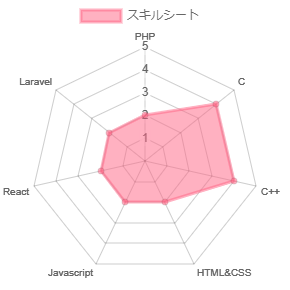
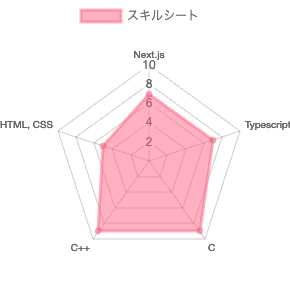
fix: renew2024

diff --git a/docs/index.html b/docs/index.html
@@ -1,126 +1,176 @@
 <!DOCTYPE html>
 <html lang="en">
-    <head>
-        <meta charset="UTF-8">
-        <meta name="viewport" content="width=device-width, initial-scale=1.0">
-        <meta http-equiv="X-UA-Compatible" content="ie=edge">
-        <link rel="stylesheet" href="./stylesheet.css">
-        <title>Piro's Portfolio</title>
-        <link rel="icon" href="./pirologo.jpg">
-        <link href="https://fonts.googleapis.com/css2?family=Kosugi+Maru&display=swap" rel="stylesheet">
-    </head>
-    <header>
-        <!-- site name -->
-        <div class = "logo">
-            <img src="./pirologo.jpg">
+  <head>
+    <meta charset="UTF-8" />
+    <meta name="viewport" content="width=device-width, initial-scale=1.0" />
+    <meta http-equiv="X-UA-Compatible" content="ie=edge" />
+    <link rel="stylesheet" href="./stylesheet.css" />
+    <title>Piro's Portfolio</title>
+    <link rel="icon" href="./pirologo.jpg" />
+    <link
+      href="https://fonts.googleapis.com/css2?family=Kosugi+Maru&display=swap"
+      rel="stylesheet"
+    />
+  </head>
+  <header>
+    <!-- site name -->
+    <div class="logo">
+      <img src="./pirologo.jpg" />
+    </div>
+    <nav class="pc_nav">
+      <ul>
+        <li><a href="#main_visual">トップ</a></li>
+        <li><a href="#about_site">このサイトについて</a></li>
+        <li><a href="#introduce">私について</a></li>
+        <li><a href="#portfolio">ポートフォリオ</a></li>
+        <li><a href="#form">お問い合わせ</a></li>
+      </ul>
+    </nav>
+    <div class="hamburger-menu">
+      <input type="checkbox" id="menu-btn-check" />
+      <label for="menu-btn-check" class="menu-btn"><span></span></label>
+      <div class="menu-content" id="menu-content">
+        <ul>
+          <li><a href="#main_visual">トップ</a></li>
+          <li><a href="#about_site">このサイトについて</a></li>
+          <li><a href="#introduce">私について</a></li>
+          <li><a href="#portfolio">ポートフォリオ</a></li>
+          <li><a href="#form">お問い合わせ</a></li>
+        </ul>
+      </div>
+    </div>
+  </header>
+  <body>
+    <!-- main -->
+    <div class="main_visual" id="main_visual">
+      <h2>Piro's Portfolio</h2>
+    </div>
+    <div class="about_site anchor" id="about_site">
+      <div class="a_s_title">
+        <a class="anchor"></a>
+        <h2>About this site</h2>
+      </div>
+      <div class="a_s_exp">
+        <p>ここはエンジニアPiroのポートフォリオサイトです。</p>
+        <p>今まで製作したものをまとめています。</p>
+        <p>どうぞゆっくりしていってくださいね！！！</p>
+      </div>
+    </div>
+    <div class="introduce" id="introduce">
+      <div class="intr_title">
+        <a class="anchor"></a>
+        <h2>About me</h2>
+      </div>
+      <div class="intr_exp">
+        <p>学習好きな40代の男性プログラマー</p>
+        <p>趣味は英語です＾＾</p>
+      </div>
+    </div>
+    <div class="portfolio" id="portfolio">
+      <div class="port_title">
+        <a class="anchor"></a>
+        <h2>ポートフォリオ</h2>
+      </div>
+      <p>製作物</p>
+      <div class="port_product">
+        <div class="product-mamaleaf item">
+          <h3>ホームページ製作案件</h3>
+          <p>
+            <a href="https://pirosiki002.github.io/portfolio/charlotte_sama/"
+              >Charlotte 様</a
+            >
+          </p>
+          <p>(HTML CSS)</p>
+          <p><a href="https://otayoly.app/">MamaLeaf 株式会社 様</a></p>
+          <p>(Wordpress)</p>
+          <p>
+            <a href="https://considerategrowthf.wixsite.com/hikarikoubou"
+              >光工房 様</a
+            >
+          </p>
+          <p>(Wix)</p>
         </div>
-        <nav class="pc_nav">
-            <ul>
-                <li><a href="#main_visual">トップ</a></li>
-                <li><a href="#about_site">このサイトについて</a></li>
-                <li><a href="#introduce">私について</a></li>
-                <li><a href="#portfolio">ポートフォリオ</a></li>
-                <li><a href="#form">お問い合わせ</a></li>
-            </ul>
-        </nav>
-        <div class="hamburger-menu">
-            <input type="checkbox" id="menu-btn-check">
-            <label for="menu-btn-check" class="menu-btn"><span></span></label>
-            <div class="menu-content" id = "menu-content">
-                <ul>
-                    <li><a href="#main_visual">トップ</a></li>
-                    <li><a href="#about_site">このサイトについて</a></li>
-                    <li><a href="#introduce">私について</a></li>
-                    <li><a href="#portfolio">ポートフォリオ</a></li>
-                    <li><a href="#form">お問い合わせ</a></li>
-                </ul>
-            </div>
+        <div class="product-repair item">
+          <h3>非公開Web開発案件</h3>
+          <p>ショッピングモール管理システム(Next.js、Typescript)</p>
+          <p>宿泊先予約管理システム(Next.js)</p>
+          <p>商品管理ツール(GAS)</p>
         </div>
-    </header>
-    <body>
-        <!-- main -->
-        <div class ="main_visual" id ="main_visual">
-            <h2>Piro's Portfolio</h2>
-        </div> 
-        <div class = "about_site anchor" id ="about_site">
-            <div class ="a_s_title">
-                <a class = "anchor"></a>
-                <h2>About this site</h2>
-            </div>
-            <div class ="a_s_exp">
-                <p>ここはエンジニアPiroのポートフォリオサイトです。</p>
-                <p>今まで製作したものをまとめています。</p>
-                <p>どうぞゆっくりしていってくださいね！！！</p>
-            </div>
+      </div>
+      <div class="port_exp">
+        <p>スキルシート</p>
+      </div>
+      <div class="l_chart">
+        <img src="chart.png" />
+      </div>
+    </div>
+    <div class="access">
+      <form
+        method="post"
+        target="hidden_iframe"
+        onsubmit="submitted=true;"
+        action="https://docs.google.com/forms/u/0/d/e/1FAIpQLSeVl0N8qFDPhXYU5RHy0G6SLp7spwsfZrxJRnJFxSXcBBQDTQ/formResponse"
+      >
+        <div class="Form" id="form">
+          <div class="Form-Title">
+            <a class="anchor"></a>
+            <h2>お問い合わせ</h2>
+            <p>お気軽にお問い合わせくださいませ。</p>
+          </div>
+          <div class="Form-Item">
+            <p class="Form-Item-Label">
+              <span class="Form-Item-Label-Required">必須</span>氏名
+            </p>
+            <input
+              type="text"
+              name="entry.462154011"
+              class="Form-Item-Input"
+              placeholder="例）山田太郎"
+              required=""
+            />
+          </div>
+          <div class="Form-Item">
+            <p class="Form-Item-Label">
+              <span class="Form-Item-Label-Required">必須</span>メールアドレス
+            </p>
+            <input
+              type="email"
+              name="entry.798130987"
+              class="Form-Item-Input"
+              placeholder="例）example@gmail.com"
+              required=""
+            />
+          </div>
+          <div class="Form-Item">
+            <p class="Form-Item-Label isMsg">
+              <span class="Form-Item-Label-Required">必須</span>お問い合わせ内容
+            </p>
+            <textarea
+              class="Form-Item-Textarea"
+              name="entry.844631762"
+              required=""
+            ></textarea>
+          </div>
+          <input
+            type="submit"
+            name="button"
+            class="Form-Btn"
+            value="送信する"
+          />
         </div>
-        <div class ="introduce" id ="introduce">
-            <div class ="intr_title">
-                <a class = "anchor"></a>
-                <h2>About me</h2>
-            </div>
-            <div class ="intr_exp">
-                <p>学習好きな30代後半のプログラマー</p>
-                <p>趣味はサイクリングと英語です＾＾</p>
-            </div>
-        </div>
-        <div class ="portfolio" id = "portfolio">
-            <div class = "port_title">
-                <a class = "anchor"></a>
-                <h2>ポートフォリオ</h2>
-            </div>
-            <p>製作物</p>
-            <div class ="port_product">
-                <div class="product-mamaleaf item">
-                    <h3>ホームページ製作案件</h3>
-                    <p><a href="https://pirosiki002.github.io/portfolio/charlotte_sama/">Charlotte 様</a></p>
-                    <p>(HTML CSS)</p>
-                    <p><a href="https://otayoly.app/">MamaLeaf 株式会社 様</a></p>
-                    <p>(Wordpress)</p>
-                    <p><a href="https://considerategrowthf.wixsite.com/hikarikoubou">光工房 様</a></p>
-                    <p>(Wix)</p>
-                </div>
-                <div class="product-repair item">
-                    <h3>非公開案件</h3>
-                    <p>商品受注管理システム(React)</p>
-                    <p>映像読み取りWebシステム(Laravel PHP)</p>
-                    <p>業務改善プログラム２件(VBA)</p>
-                </div>
-            </div>
-            <div class ="port_exp">
-                <p>スキルシート</p>
-            </div>
-            <div class ="l_chart">
-                <img src="chart.png">
-            </div>
-        </div>
-        <div class="access">
-            <form method="post" target="hidden_iframe" onsubmit="submitted=true;" action="https://docs.google.com/forms/u/0/d/e/1FAIpQLSeVl0N8qFDPhXYU5RHy0G6SLp7spwsfZrxJRnJFxSXcBBQDTQ/formResponse">
-                <div class="Form" id="form">
-                    <div class="Form-Title">
-                        <a class = "anchor"></a>
-                        <h2>お問い合わせ</h2>
-                        <p>お気軽にお問い合わせくださいませ。</p>
-                    </div>
-                    <div class="Form-Item">
-                        <p class="Form-Item-Label"><span class="Form-Item-Label-Required">必須</span>氏名</p>
-                        <input type="text" name="entry.462154011" class="Form-Item-Input" placeholder="例）山田太郎" required="">
-                    </div>
-                    <div class="Form-Item">
-                        <p class="Form-Item-Label"><span class="Form-Item-Label-Required">必須</span>メールアドレス</p>
-                        <input type="email" name="entry.798130987" class="Form-Item-Input" placeholder="例）example@gmail.com" required="">
-                    </div>
-                    <div class="Form-Item">
-                        <p class="Form-Item-Label isMsg"><span class="Form-Item-Label-Required">必須</span>お問い合わせ内容</p>
-                        <textarea class="Form-Item-Textarea" name="entry.844631762"required=""></textarea>
-                    </div>
-                    <input type="submit" name="button" class="Form-Btn" value="送信する">
-                </div>
-            </form>
-        </div>
-        <script type="text/javascript">var submitted = false;</script>
-        <iframe name="hidden_iframe" id="hidden_iframe" style="display:none;" onload="if(submitted){window.location='./thanks.html';}"></iframe>
-        <button id="scroll-to-top-btn">≫</button>
-        <script src="https://ajax.googleapis.com/ajax/libs/jquery/3.6.0/jquery.min.js"></script>
-        <script type="text/javascript" src="./javaScript.js"></script>
-    </body>
+      </form>
+    </div>
+    <script type="text/javascript">
+      var submitted = false;
+    </script>
+    <iframe
+      name="hidden_iframe"
+      id="hidden_iframe"
+      style="display: none"
+      onload="if(submitted){window.location='./thanks.html';}"
+    ></iframe>
+    <button id="scroll-to-top-btn">≫</button>
+    <script src="https://ajax.googleapis.com/ajax/libs/jquery/3.6.0/jquery.min.js"></script>
+    <script type="text/javascript" src="./javaScript.js"></script>
+  </body>
 </html>
